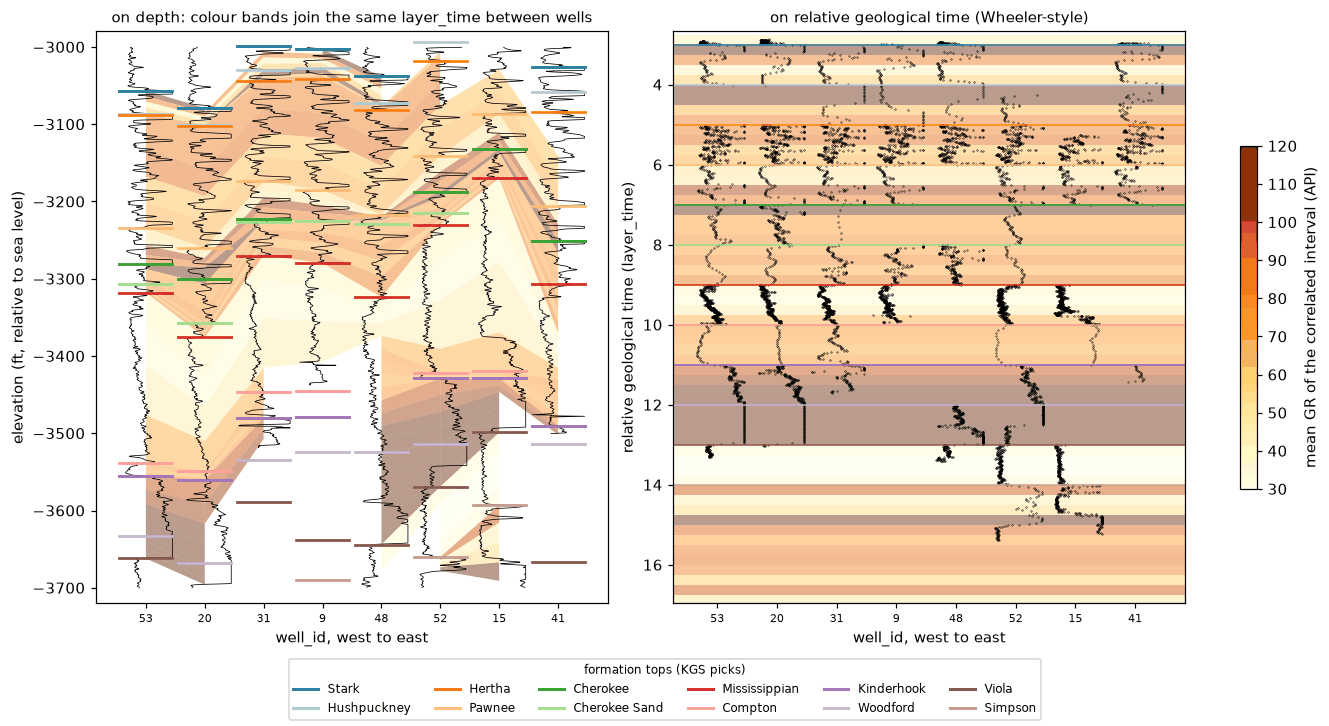
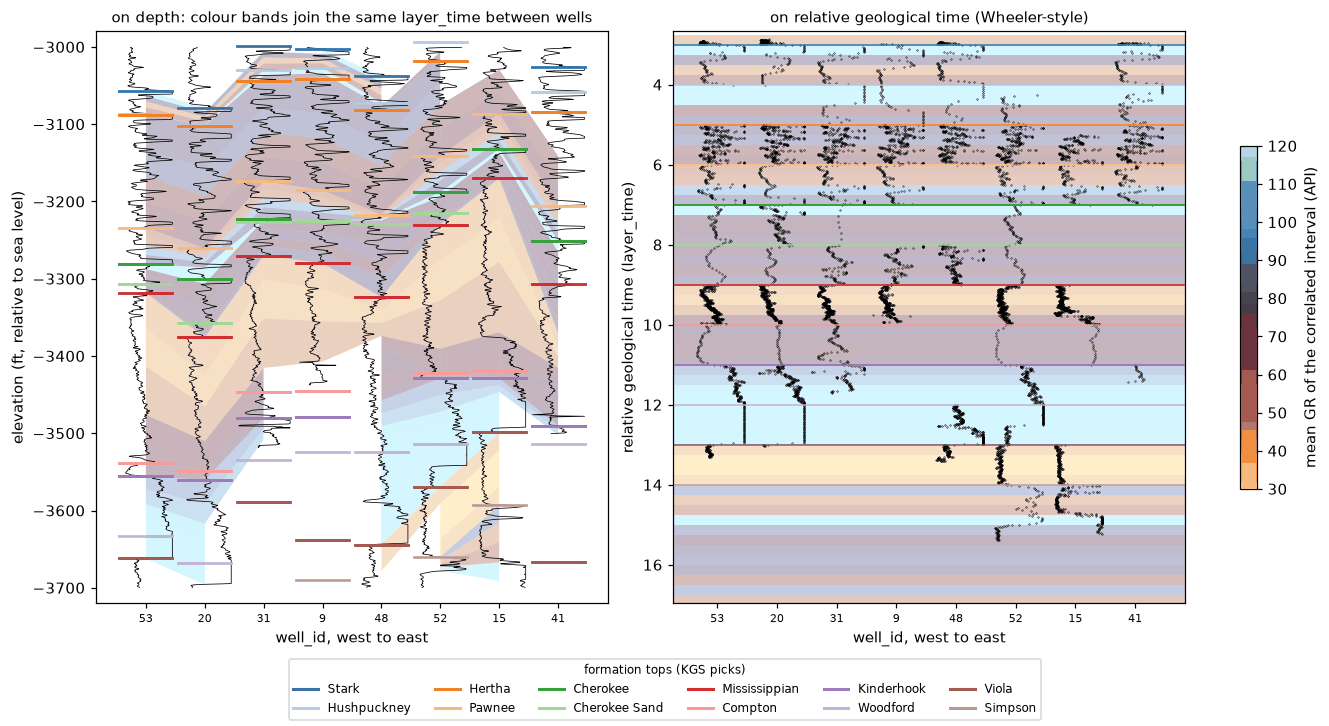
README: trim acknowledgement wording; correlation figure in managua

diff --git a/examples/_build_notebooks.py b/examples/_build_notebooks.py
@@ -113,7 +113,7 @@ names = names[(names.e < -2990) & (names.e > -3700)]                     # tops 
 tcol = dict(zip(names.index, plt.cm.tab20(np.arange(len(names)) % 20)))
 levels = np.arange(np.floor(d.layer_time.min()), np.ceil(d.layer_time.max()) + 1e-9, 0.25)
 gr_band = d.groupby(np.digitize(d.layer_time, levels)).gr_api.mean()         # mean GR of each correlated interval
-norm = plt.Normalize(30, 120); band_cmap = plt.cm.YlOrBr
+norm = plt.Normalize(30, 120); band_cmap = plt.get_cmap("managua")
 def elev_at(s, lv):                                                     # depth of a layer_time level in one well
     s = s.dropna(subset=["layer_time"]).sort_values("layer_time")
     return np.interp(lv, s.layer_time, s.elev_ft, left=np.nan, right=np.nan)
@@ -124,7 +124,7 @@ for i in range(len(per) - 1):                                            # corre
     for m in range(len(levels) - 1):
         q = [ea[m], eb[m], eb[m + 1], ea[m + 1]]
         if np.all(np.isfinite(q)) and (m + 1) in gr_band.index:
-            axs[0].fill([i + 0.45, i + 1.45, i + 1.45, i + 0.45], q, color=band_cmap(norm(gr_band[m + 1])), alpha=0.45, lw=0)
+            axs[0].fill([i + 0.45, i + 1.45, i + 1.45, i + 0.45], q, color=band_cmap(norm(gr_band[m + 1])), alpha=0.35, lw=0)
 for i, s in enumerate(per):
     g = (s.gr_api.clip(0, 150) / 150) * 0.9 + i
     axs[0].plot(g, s.elev_ft, lw=0.5, color="k"); axs[1].plot(g, s.layer_time, ".", ms=0.6, color="k")
@@ -134,7 +134,7 @@ for n, r in names.iterrows():                                            # tops 
     axs[1].axhline(r.t + 1, color=tcol[n], lw=1.2, alpha=0.8)
 for m in range(len(levels) - 1):
     if (m + 1) in gr_band.index:
-        axs[1].axhspan(levels[m], levels[m + 1], color=band_cmap(norm(gr_band[m + 1])), alpha=0.45, lw=0, zorder=0)
+        axs[1].axhspan(levels[m], levels[m + 1], color=band_cmap(norm(gr_band[m + 1])), alpha=0.35, lw=0, zorder=0)
 axs[0].set_ylabel("elevation (ft, relative to sea level)"); axs[1].set_ylabel("relative geological time (layer_time)")
 axs[0].set_ylim(-3720, -2980); axs[1].set_ylim(d.layer_time.max() + 0.2, d.layer_time.min() - 0.2)
 for ax, t in zip(axs, ["on depth: colour bands join the same layer_time between wells", "on relative geological time (Wheeler-style)"]):

diff --git a/README.md b/README.md
@@ -84,7 +84,7 @@ triangles are the well data in that layer.
 <li><b>Sequential indicator simulation (SIS)</b>, one realization: clean or tight rock (Journel 1983; Deutsch &amp; Journel 1998, GSLIB).</li>
 <li><b>Machine learning (ML) P50</b>: the median of a quantile regression forest (Meinshausen 2006).</li>
 </ul>
-All are SubsurfiX's own implementations based on these methods; see notebook 04.</td>
+See notebook 04.</td>
 </tr>
 </table>
 
@@ -272,8 +272,7 @@ or the temperature change is. Details: `scripts/kansas_fluids.py`; a fast small 
 
 FIM-OBL is a finite-volume solver that follows the operator-based linearization published for
 [open-DARTS](https://gitlab.com/open-darts/open-darts) (Voskov 2017; Khait & Voskov 2017, 2018; latest release
-when accessed on 2026-11-01: 2.1.0). No open-DARTS code was copied, and FIM-OBL has not been checked as
-equivalent to it. The `.vtu` mesh export writes the mesh format read by
+when accessed on 2026-11-01: 2.1.0). The `.vtu` mesh export writes the mesh format read by
 [OpenGeoSys](https://www.opengeosys.org) (latest release when accessed on 2026-11-01: 6.5.9). The CO₂ VE relative permeabilities and the flow diagnostics are derived from
 [MRST](https://www.sintef.no/projectweb/mrst/) 2026a (SINTEF Digital, GPL-3.0-or-later). Water properties follow
 IAPWS-IF97 (revised release R7-97(2012)), with viscosity from IAPWS 2008 and thermal conductivity from IAPWS 2011.
